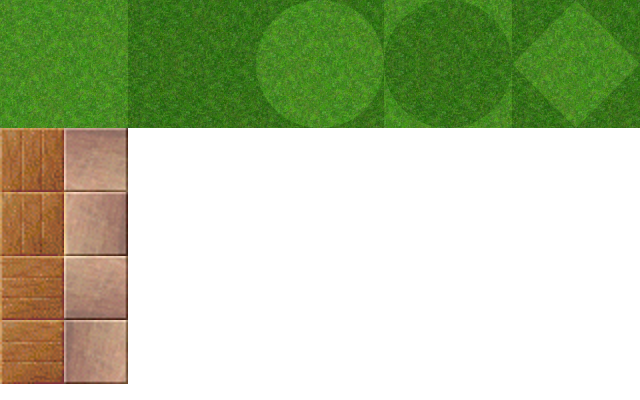
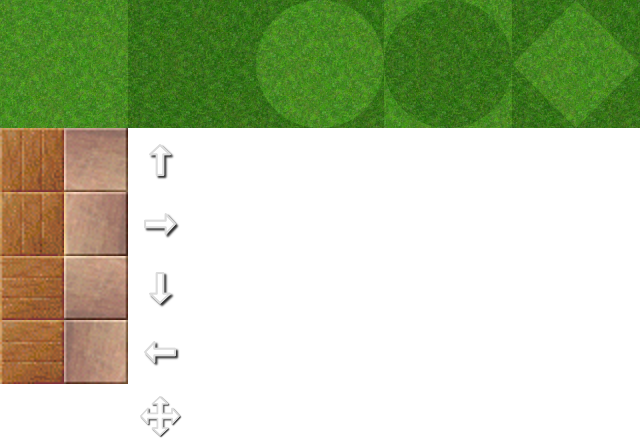
start direction marker

Changed region(s): [[0.0, 0.03, 1.0, 0.99], [0.2188, 0.48, 0.2812, 0.54]]

diff --git a/index.html b/index.html
@@ -31,22 +31,26 @@ state.create = function() {
 
     this.redirector = new Kiwi.GameObjects.Sprite(this, this.textures.oneWay, 2*64, 3*64);	
     this.redirector.box.hitbox = new Kiwi.Geom.Rectangle( 20, 20, 50, 50 );
+	this.redirector.input.enableDrag();
 	
 	this.redirector2 = new Kiwi.GameObjects.Sprite(this, this.textures.oneWay, 6*64, 3*64);	
 	this.redirector2.cellIndex = 6;
     this.redirector2.box.hitbox = new Kiwi.Geom.Rectangle( 20, 20, 50, 50 );
+	this.redirector2.input.enableDrag();
 
     // Ground layer
     this.addChild(this.tilemap.layers[0]);
 
     this.addChild(this.character);
+
+    // Walls layer
+    this.addChild(this.tilemap.layers[1]);
 	
 	this.addChild(this.redirector);
 	this.addChild(this.redirector2);
 	
-    // Walls layer
-    this.addChild(this.tilemap.layers[1]);
-    
+	// Sky layer
+    this.addChild(this.tilemap.layers[2]);
     
     
     for(var i = 21; i < this.tilemap.tileTypes.length; i++) {

diff --git a/README.md b/README.md
@@ -2,7 +2,7 @@ PF 2016 - Work in progress version
 ----
 
 This small game is electronic card for New Year 2016.
-Idea, graphic and mechanic is derived from open source game Enigma.
+Idea, graphic and mechanic has been derrived from open source game Enigma.
 
 Created for http://www.ysofters.com blog.
 
